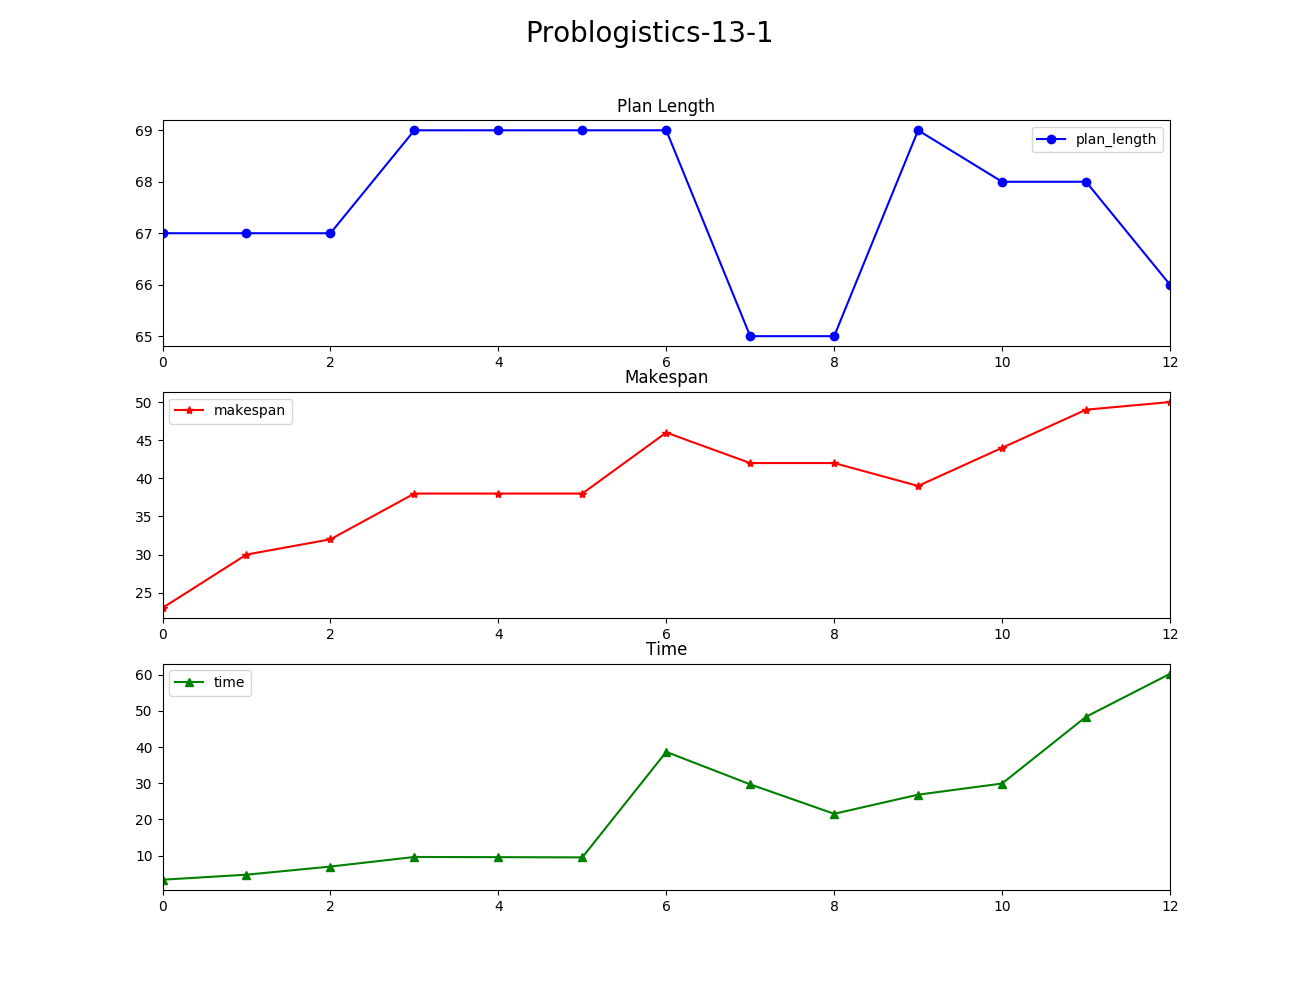
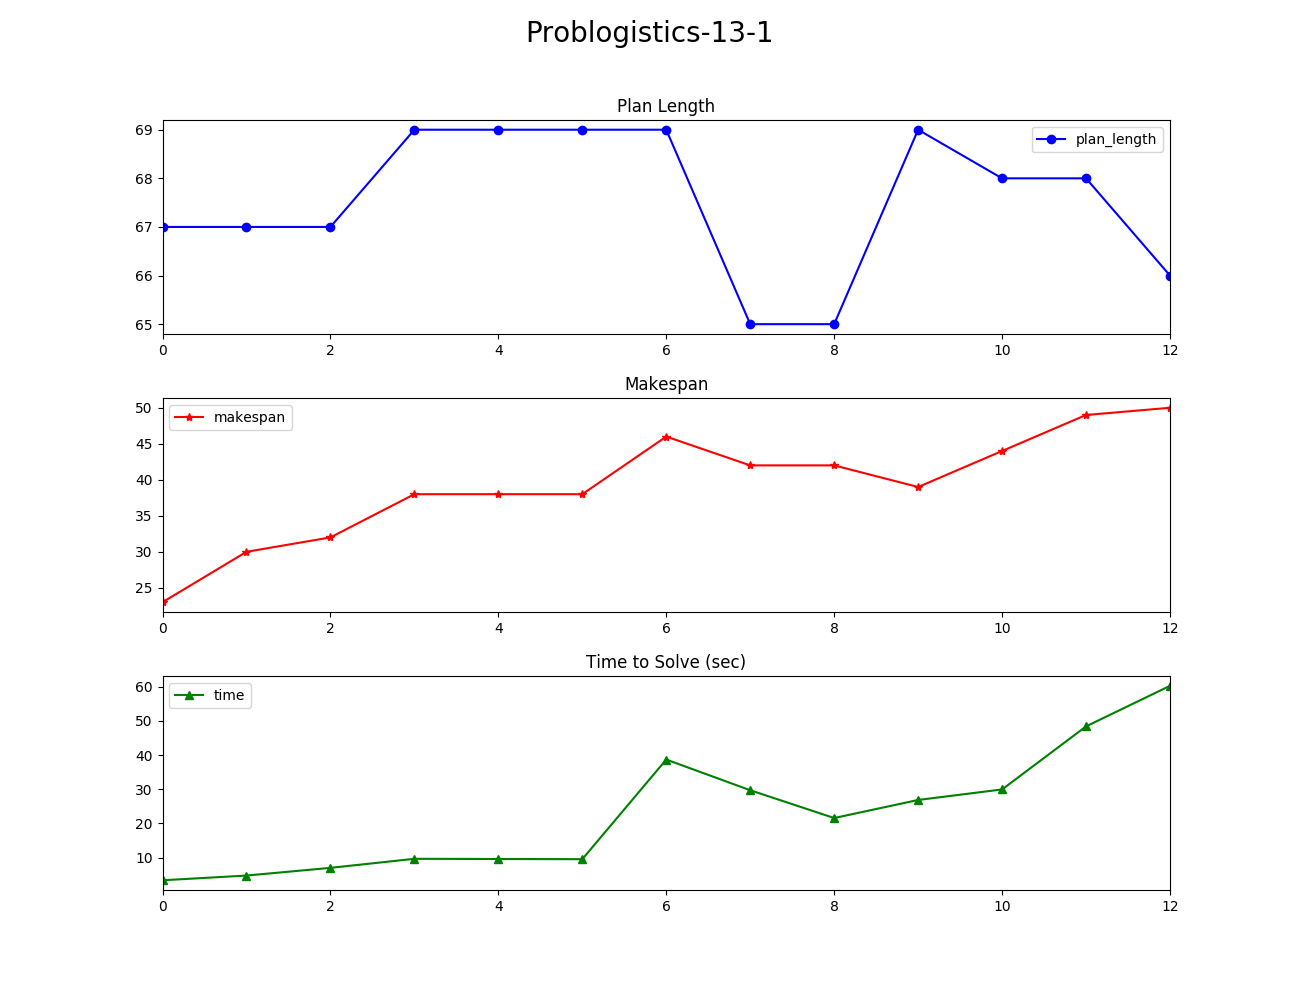
add graphs

diff --git a/per_num_predicates_algo.py b/per_num_predicates_algo.py
@@ -2,6 +2,7 @@ import random
 from copy import deepcopy
 
 
+# Returns for given agent and private object the number of predicates that will turn public
 def _get_num_predicates(priv_obj, problem_name, problems):
     res = 0
     for predicate in problems[problem_name]['init']:
@@ -11,6 +12,7 @@ def _get_num_predicates(priv_obj, problem_name, problems):
     return res
 
 
+# Retrieve the next private object to make public
 def _get_next_object(problems):
     max_num_predicates = -1
     max_object = None
@@ -25,6 +27,7 @@ def _get_next_object(problems):
     return max_num_predicates, max_prob, max_object
 
 
+# Check if given agent's private predicate can turn public if you turn given object public
 def _is_public_predicate(obj_name, predicate, problem):
     if predicate[0] == 'not':
         _predicate = predicate[1]
@@ -41,6 +44,7 @@ def _is_public_predicate(obj_name, predicate, problem):
     return True
 
 
+# Delete given private object fron the given agent's problem
 def _delete_from_private_list(priv_obj, problem):
     i = 0
     for obj in problem['private_objects']:
@@ -50,10 +54,15 @@ def _delete_from_private_list(priv_obj, problem):
     problem['private_objects'].pop(i)
 
 
+# Generator for creating the problem with the relaxed privacy
 def private_relaxation(parsed_problems):
     new_problems = parsed_problems
     while True:
         num_predicates, problem_name, selected_object = _get_next_object(new_problems)
+
+        # Stopping condition
+        if problem_name:
+            break
 
         new_problems = deepcopy(new_problems)
 
@@ -89,5 +98,6 @@ def private_relaxation(parsed_problems):
                     if prob == problem_name:
                         continue
                     new_problems[prob]['goal']['negative'].append(predicate)
+
         iteration_name = str(num_predicates) + '_' + selected_object[0]
         yield iteration_name, new_problems

diff --git a/random_algo.py b/random_algo.py
@@ -2,6 +2,7 @@ import random
 from copy import deepcopy
 
 
+# Returns private objects pool dict --> key: object_name, value: tuple of (problem name,the private object)
 def _create_private_pool(parsed_problems):
     pool = {}
     for prob in parsed_problems:
@@ -10,6 +11,7 @@ def _create_private_pool(parsed_problems):
     return pool
 
 
+# Check if given agent's private predicate can turn public if you turn given object public
 def _is_public_predicate(obj_name, predicate, problem):
     if predicate[0] == 'not':
         _predicate = predicate[1]
@@ -26,6 +28,7 @@ def _is_public_predicate(obj_name, predicate, problem):
     return True
 
 
+# Delete given private object from given problem
 def _delete_from_private_list(priv_obj, problem):
     i = 0
     for obj in problem['private_objects']:
@@ -35,11 +38,13 @@ def _delete_from_private_list(priv_obj, problem):
     problem['private_objects'].pop(i)
 
 
+# Generator for creating the problem with the relaxed privacy
 def private_relaxation(parsed_problems):
     private_pool = _create_private_pool(parsed_problems)
     new_problems = parsed_problems
     iteration = 1
     while True:
+        # sample from pool
         key_value = random.sample(private_pool.items(), 1)[0]
         pool_key = key_value[0]
         problem_name = key_value[1][0]
@@ -55,7 +60,7 @@ def private_relaxation(parsed_problems):
             new_problems[prob]['public_objects'].append(selected_object)
 
         # delete the new public object from relevant agent's private objects
-        _delete_from_private_list(selected_object,new_problems[problem_name])
+        _delete_from_private_list(selected_object, new_problems[problem_name])
 
         # update relevant init predicates
         for predicate in new_problems[problem_name]['init']:

diff --git a/per_agent_algo.py b/per_agent_algo.py
@@ -2,6 +2,7 @@ import random
 from copy import deepcopy
 import re
 
+
 # Returns agents pool dict --> key: agent, value: list of private objects
 def _create_agent_pool(parsed_problems):
     pool = {}
@@ -14,7 +15,7 @@ def _create_agent_pool(parsed_problems):
     return pool
 
 
-# Check if given predicate is public
+# Check if given agent's private predicate can turn public if you turn given object public
 def _is_public_predicate(obj_name, predicate, problem):
     if predicate[0] == 'not':
         _predicate = predicate[1]
@@ -41,11 +42,13 @@ def _delete_from_private_list(priv_obj, problem):
     problem['private_objects'].pop(i)
 
 
+# Generator for creating the problem with the relaxed privacy
 def private_relaxation(parsed_problems):
     agents_pool = _create_agent_pool(parsed_problems)
     new_problems = parsed_problems
-    iteration_names = []
+    iterations = []
     while True:
+        # sample from pool
         key_value = random.sample(agents_pool.items(), 1)[0]
         agent = key_value[0]
         agent_private_objects = key_value[1]
@@ -90,11 +93,14 @@ def private_relaxation(parsed_problems):
                         if prob == agent:
                             continue
                         new_problems[prob]['goal']['negative'].append(predicate)
-        iteration_names.append(re.sub(r'\.pddl|problem-', '', agent))
-        iteration_name = str(iteration_names)
+
+        iterations.append(re.sub(r'\.pddl|problem-', '', agent))
+        iteration_name = str(iterations)
         iteration_name = re.sub(r'\s|\[|\]|\\|\'', '', iteration_name)
         iteration_name = re.sub(r',', '_', iteration_name)
+
         yield iteration_name, new_problems
 
+        # Stopping condition
         if len(agents_pool) == 0:
             break

diff --git a/test.py b/test.py
@@ -29,11 +29,11 @@ for problem_dir in os.listdir(os.fsencode(domain_path)):
     for i, new_problems in private_relaxation(parsed_problems):
         new_problem_path = './privacy_relaxation/' + algo + '/' + domain_name + '/' + problem_name + '/' + str(i)
 
-        # Write the new relaxed problem and domain files
-        write_problems(original_problem_path, new_problem_path, domain_name, problem_name, new_problems)
-
-        # Run planner on new relaxed problem
-        res = os.popen('{} {}'.format(planner_path, new_problem_path)).read()
+        # # Write the new relaxed problem and domain files
+        # write_problems(original_problem_path, new_problem_path, domain_name, problem_name, new_problems)
+        #
+        # # Run planner on new relaxed problem
+        # res = os.popen('{} {}'.format(planner_path, new_problem_path)).read()
 
     # result_file_path = './results/' + problem_name + '.txt'
     # copyfile('./Results.txt', result_file_path)

diff --git a/plot_graphs.py b/plot_graphs.py
@@ -6,6 +6,7 @@ import re
 
 def _plot_graph(file_path, title, df):
     fig, axes = plt.subplots(nrows=3, ncols=1, figsize=(13, 10))
+    plt.subplots_adjust(hspace=0.3)
     fig.suptitle(title.capitalize(), fontsize=20)
 
     df[['plan_length']].plot(ax=axes[0], color='b', marker='o')
@@ -13,15 +14,15 @@ def _plot_graph(file_path, title, df):
     df[['makespan']].plot(ax=axes[1], color='r', marker='*')
     axes[1].set_title("Makespan")
     df[['time']].plot(ax=axes[2], color='g', marker='^')
-    axes[2].set_title("Time")
+    axes[2].set_title("Time to Solve (sec)")
 
     plt.savefig(file_path)
 
 
-algo = 'random'
+algo = 'per_agent'
 results_path = './{}_results'.format(algo)
 
-# Loop over all results in for the given algo
+# Loop over all results in for the given algorithm results path
 for res_file in os.listdir(os.fsencode(results_path)):
     res_name = os.fsdecode(res_file)
     df = pd.read_csv(results_path + '/' + res_name,
